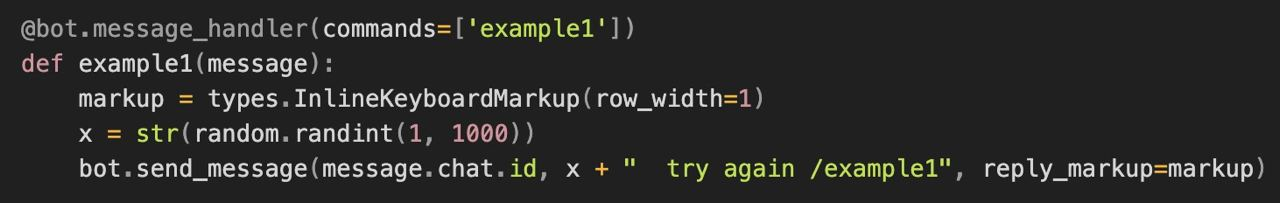
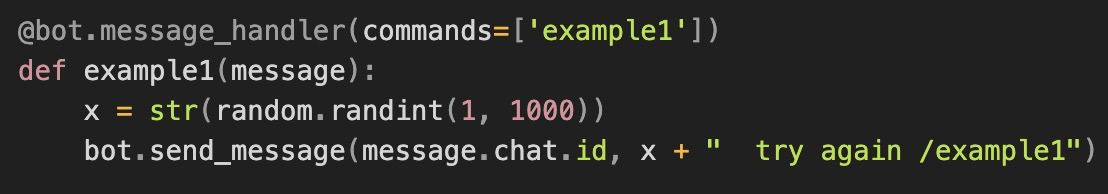
Added new chapter bot send

Changed region(s): [[0.0, 0.2474, 1.0, 0.8969], [0.0, 0.0619, 0.6444, 0.2474]]

diff --git a/MotherBotForTelegram/main.py b/MotherBotForTelegram/main.py
@@ -5,7 +5,7 @@ from telebot import callback_data
 from time import sleep
 import random
 import emoji
-# 👉 🙏 👆 👇 😅 👋 🙌 ☺ ❗ ‼ ✌ 👌 ✊ 👨💻  🤖 😉  ☝ ❤
+# 👉 🙏 👆 👇 😅 👋 🙌 ☺ ❗ ‼ ✌ 👌 ✊ 👨💻  🤖 😉  ☝ ❤ 💪
 
 bot = telebot.TeleBot('5430380851:AAE70eeR3jFdxuM_BlWjWLNgsDEGhWRqC7o')
 
@@ -72,38 +72,84 @@ def step(call):
 
 
 
-    # Кнопка для 3. Команда start ----------------------------------------------------------------------
+    # Кнопка для 3. Команды и функции ----------------------------------------------------------------------
     elif call.data == 'theorystart':
         markup.add(types.InlineKeyboardButton("Пример 1", callback_data='firstexamplestart'),
                    types.InlineKeyboardButton("Пример 2", callback_data='secondexamplestart'))
-        theorystart_message = "Функции могут исполнять какие-то действия и возвращать нам результат."
+        theorystart_message = "Команды представляют собой более гибкий способ общения с ботом. \n" \
+                              "*Рекомендуется следующий синтаксис:*\n" \
+                              "_/команда [необязательный] [аргумент]_\n\n" \
+                              "☝ Команда должна начинаться с символа косой черты «/» и не может быть длиннее 32 символов. " \
+                              "Команды могут состоять из букв латинского алфавита, цифр и подчёркивания. \n\n*Несколько примеров:*\n" \
+                              "_get_messages_stats_\n" \
+                              "_set_timer 10min Alarm!_\n" \
+                              "_get_timezone London, UK_\n\n"
         msg = bot.send_message(call.message.chat.id, theorystart_message, parse_mode='Markdown', reply_markup=markup)
 
     elif call.data == 'firstexamplestart':
-        firstexamplestart_message = "Например эта простейшая функция выводит на экран рандомное число:"
+        firstexamplestart_message = "Например эта простейшая команда выводит на экран рандомное число:"
         msg = bot.send_message(call.message.chat.id, firstexamplestart_message, parse_mode='Markdown')
         pic_5 = open("example1.jpg", "rb")
         bot.send_photo(call.message.chat.id,pic_5)
+        firstexample2start_message = "*1.* Мы задаем название команды.\n" \
+                                     "*2.* Начинаем писать функцию для ее обработки.\n" \
+                                     "*3.* Генерим рандомное число от 1 до 1000\n" \
+                                     "*4.* Поручаем боту отправить сообщение с нашим числом (переведенным в строковый тип данных и дублируем вызов команды"
+        msg = bot.send_message(call.message.chat.id, firstexample2start_message, parse_mode='Markdown')
         msg = bot.send_message(call.message.chat.id, "click me 👉 /example1", parse_mode='Markdown')
 
     elif call.data == 'secondexamplestart':
-        secondexamplestart_message = "Эта функция посложнее, мы считываем число введенное пользователем *(именно число)*" \
+        secondexamplestart_message = "Эта команда посложнее, мы считываем число введенное пользователем *(именно число)*" \
                                      "и возвращаем факториал от числа"
         msg = bot.send_message(call.message.chat.id, secondexamplestart_message, parse_mode='Markdown')
         pic_6 = open("example2.jpg", "rb")
         bot.send_photo(call.message.chat.id, pic_6)
+        secondexample2start_message = "*1-2.* Строчки аналогичны предыдущему примеру\n" \
+                                     "*3.* Специальное обращение бота, когда он отвечает на сообщение пользователя\n" \
+                                     "*6.* Мы создаем фунцию обрабатывающую текст введенный пользователем \n" \
+                                     "*7.* Кладем полученное сообщение в переменную x с типом данных str\n" \
+                                     "*8.* Проверяем через методы строк пришло ли на вход число\n" \
+                                      "*9.* Если было введено число и оно удовлетворяет условию, то переводим его в int-вое значение\n" \
+                                      "*10-13.* И вычисляем факториал числа простейшим образом\n" \
+                                      "*14-15.* Иначе просим пользователя перезапустить команду"
+        msg = bot.send_message(call.message.chat.id, secondexample2start_message, parse_mode='Markdown')
         msg = bot.send_message(call.message.chat.id, "touch me 👉 /example2", parse_mode='Markdown', reply_markup=markup)
 
     elif call.data == 'exitexample1':
         markup.add(types.InlineKeyboardButton("Пример 2", callback_data='secondexamplestart'))
         msg = bot.send_message(call.message.chat.id, "Отлично, двигаемся дальше 👇",reply_markup=markup)
 
-
     elif call.data == 'exitexample2':
         msg = bot.send_message(call.message.chat.id, "✅ Пора двигаться дальше 😉",reply_markup=markup)
-    # Кнопка для 3. Команда start ----------------------------------------------------------------------
+    # Кнопка для 3. Команды и функции ----------------------------------------------------------------------
+
+    # Кнопки 4. Бот отправляет ----------------------------------------------------------------------
+    elif call.data == 'theorybotsend':
+        markup.add(types.InlineKeyboardButton("Пример", callback_data='firstexamplebotsend'))
+        theorybotsend_message = "ТУТ БУДЕТ ТЕОРИЯ"
+        msg = bot.send_message(call.message.chat.id, theorybotsend_message, parse_mode='Markdown', reply_markup=markup)
+
+    elif call.data == 'firstexamplebotsend':
+        examplebotsend_message = "Вот примеры простейших объектов которые бот может отправлять пользователю:"
+        msg = bot.send_message(call.message.chat.id,  examplebotsend_message, parse_mode='Markdown')
+        pic_5 = open("example3.jpg", "rb")
+        bot.send_photo(call.message.chat.id, pic_5)
+        example2botsend_message = "*3.* Отправляем текст пользователю \n" \
+                                     "*5-6.* Открываем картинку из проекта и отправляем ее пользователю\n" \
+                                     "*8.* Бот отправляет заготовленный заранее контакт\n" \
+                                     "*10-11.* Аналогично картинке скачиваем в проект стикер и отправлем его"
+        msg = bot.send_message(call.message.chat.id, example2botsend_message, parse_mode='Markdown')
+        msg = bot.send_message(call.message.chat.id, " 👉 /example3", parse_mode='Markdown')
 
 
+
+    # Кнопки 4. Бот отправляет ----------------------------------------------------------------------
+
+    # Кнопки 5. KeyboardButton ----------------------------------------------------------------------
+    # Кнопки 5. KeyboardButton ----------------------------------------------------------------------
+
+    # Кнопки 6. InlineButton ----------------------------------------------------------------------
+    # Кнопки 6. InlineButton ----------------------------------------------------------------------
 
 
     # Кнопки для получения Донатов ----------------------------------------------------------------------
@@ -114,8 +160,22 @@ def step(call):
         msg = bot.send_message(call.message.chat.id, " Спасибо за оценку моей работы ❤ ")
     # Кнопки для получения Донатов ----------------------------------------------------------------------
 
+# for example3, in shapter 'Бот отправляет'
+@bot.message_handler(commands=['example3'])
+def example3(message):
+    bot.send_message(message.chat.id, 'Вот тут мы отправляем текст')
 
-# Command for example1, in chapter 'Команда start'
+    pic = open("privetexample.jpg", "rb")
+    bot.send_photo(message.chat.id, pic)
+
+    bot.send_contact(message.chat.id, phone_number=79998887766, first_name="Бот Анатолий", last_name="Прокат NFT великов за биткоин")
+
+    sti = open("AnimatedStickerFrog.tgs", "rb")
+    bot.send_sticker(message.chat.id, sti)
+
+    bot.send_message(message.chat.id, "✅ Двигаемся вперед 💪")
+
+# for example1, in chapter 'Команды и функции'
 @bot.message_handler(commands=['example1'])
 def example1(message):
     markup = types.InlineKeyboardMarkup(row_width=1)
@@ -123,16 +183,16 @@ def example1(message):
     x = str(random.randint(1, 1000))
     bot.send_message(message.chat.id, x + "  try again /example1", reply_markup=markup)
 
-# Command for example2, in chapter 'Команда start'
+# for example2, in chapter 'Команды и функции'
 @bot.message_handler(commands=['example2'])
 def example2(message):
     markup = types.InlineKeyboardMarkup()
-    bot.reply_to(message, 'Посчитаем факториал числа: ')
+    bot.reply_to(message, 'Посчитаем факториал числа:\n(Не превышающего 1000) ')
 
     @bot.message_handler(content_types=['text'])
     def message_input(message):
         x = message.text
-        if x.isdigit() == True:
+        if x.isdigit() == True and 0 < int(x) <= 1000:
             temp = int(x)
             res = 1
             while temp > 0:
@@ -146,9 +206,6 @@ def example2(message):
 
 
     bot.register_next_step_handler(message, message_input)
-
-
-
 
 #MENU
 @bot.message_handler(commands=['menu'])
@@ -310,14 +367,16 @@ def mess(message):
         sleep(0.5)
     # 2. Получение token ----------------------------------------------------------------------
 
-    # 3. Команда "start" ----------------------------------------------------------------------
+    # 3. Команды и функции ----------------------------------------------------------------------
     if get_message_bot == "Команды и функции":
         markup1 = types.ReplyKeyboardMarkup(resize_keyboard=True, row_width=1)
         btn1 = types.KeyboardButton("Бот отправляет")
         btn2 = types.KeyboardButton("Содержание")
         markup1.add(btn1, btn2)
-        first_message = "Token получен, библиотеки установлены, энтузиазмом заряжены - пора запускать бота!\n" \
-                        "Любой бот запускается с первой команды, которую нам и необходимо реализовать в этом разделе."
+        first_message = "Token получен, библиотеки установлены - пора запускать бота!\n\n" \
+                        "Любой бот запускается с первой команды, которую нам и необходимо реализовать в этом разделе. " \
+                        "\n\nДумаю, вы уже замечали, что большинство ботов начинаются с команды /start , " \
+                        "но это просто название, мы можем написать команду с любым функционалом."
         bot.send_message(message.chat.id, first_message, parse_mode='Markdown', reply_markup=markup1)
         sleep(0.5)
 
@@ -325,20 +384,25 @@ def mess(message):
         markup2.add(types.InlineKeyboardButton("Теория", callback_data='theorystart'))
         bot.send_message(message.chat.id, "👇", parse_mode='Markdown', reply_markup=markup2)
         sleep(0.5)
-    # 3. Команда "start" ----------------------------------------------------------------------
+    # 3. Команды и функции ----------------------------------------------------------------------
 
-    # 4. Про buttons ----------------------------------------------------------------------
+    # 4. Бот отправляет ----------------------------------------------------------------------
     if get_message_bot == "Бот отправляет":
         markup1 = types.ReplyKeyboardMarkup(resize_keyboard=True, row_width=1)
         btn1 = types.KeyboardButton("KeyboardButton")
         btn2 = types.KeyboardButton("Содержание")
         markup1.add(btn1, btn2)
-        first_message = "туть нужен текст"
+        first_message = "Умея создавать команды - пришло время научиться бота реагировать на них с помощью клавишь"
         bot.send_message(message.chat.id, first_message, parse_mode='Markdown', reply_markup=markup1)
         sleep(0.5)
-    # 4. Про buttons ----------------------------------------------------------------------
 
-    # 5. Добавление ссылок ----------------------------------------------------------------------
+        markup2 = types.InlineKeyboardMarkup(row_width=1)
+        markup2.add(types.InlineKeyboardButton("Теория", callback_data='theorybotsend'))
+        bot.send_message(message.chat.id, "👇", parse_mode='Markdown', reply_markup=markup2)
+        sleep(0.5)
+    # 4. Бот отправляет ----------------------------------------------------------------------
+
+    # 5. KeyboardButton ----------------------------------------------------------------------
     if get_message_bot == "KeyboardButton":
         markup1 = types.ReplyKeyboardMarkup(resize_keyboard=True, row_width=1)
         btn1 = types.KeyboardButton("InlineButton")
@@ -347,9 +411,9 @@ def mess(message):
         first_message = "туть нужен текст"
         bot.send_message(message.chat.id, first_message, parse_mode='Markdown', reply_markup=markup1)
         sleep(0.5)
-    # 5. Добавление ссылок ----------------------------------------------------------------------
+    # 5. KeyboardButton ----------------------------------------------------------------------
 
-    # 6. Отправляем файлы ----------------------------------------------------------------------
+    # 6. InlineButton ----------------------------------------------------------------------
     if get_message_bot == "InlineButton":
         markup1 = types.ReplyKeyboardMarkup(resize_keyboard=True, row_width=1)
         btn1 = types.KeyboardButton("Подключаем к CRM")
@@ -358,7 +422,7 @@ def mess(message):
         first_message = "туть нужен текст"
         bot.send_message(message.chat.id, first_message, parse_mode='Markdown', reply_markup=markup1)
         sleep(0.5)
-    # 6. Отправляем файлы ----------------------------------------------------------------------
+    # 6. InlineButton ----------------------------------------------------------------------
 
     # 7. Подключаем к CRM ----------------------------------------------------------------------
     if get_message_bot == "Подключаем к CRM":
@@ -431,8 +495,10 @@ def mess(message):
         btn1 = types.KeyboardButton("Бот отправляет")
         btn2 = types.KeyboardButton("Содержание")
         markup1.add(btn1, btn2)
-        first_message = "Token получен, библиотеки установлены, энтузиазмом заряжены - пора запускать бота!\n" \
-                        "Любой бот запускается с первой команды, которую нам и необходимо реализовать в этом разделе."
+        first_message = "Token получен, библиотеки установлены - пора запускать бота!\n\n" \
+                        "Любой бот запускается с первой команды, которую нам и необходимо реализовать в этом разделе. " \
+                        "\n\nДумаю, вы уже замечали, что большинство ботов начинаются с команды /start , " \
+                        "но это просто название, мы можем написать команду с любым функционалом."
         bot.send_message(message.chat.id, first_message, parse_mode='Markdown', reply_markup=markup1)
         sleep(0.5)
 
@@ -446,8 +512,13 @@ def mess(message):
         btn1 = types.KeyboardButton("KeyboardButton")
         btn2 = types.KeyboardButton("Содержание")
         markup1.add(btn1, btn2)
-        first_message = "туть нужен текст"
+        first_message = "Умея создавать команды - пришло время научиться бота реагировать на них с помощью клавишь"
         bot.send_message(message.chat.id, first_message, parse_mode='Markdown', reply_markup=markup1)
+        sleep(0.5)
+
+        markup2 = types.InlineKeyboardMarkup(row_width=1)
+        markup2.add(types.InlineKeyboardButton("Теория", callback_data='theorybotsend'))
+        bot.send_message(message.chat.id, "👇", parse_mode='Markdown', reply_markup=markup2)
         sleep(0.5)
 
     if get_message_bot =='5. KeyboardButton':
